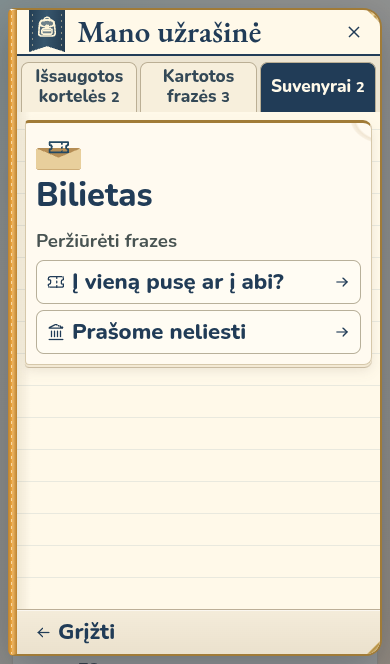
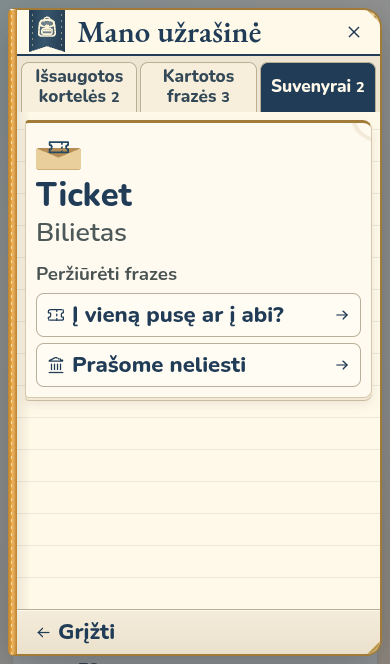
Use the owner-approved English names for Maple Harbor keepsakes

Changed region(s): [[0.0615, 0.2711, 0.9538, 0.6024], [0.8615, 0.4217, 0.9231, 0.512]]

diff --git a/src/content/keepsakes.ts b/src/content/keepsakes.ts
@@ -26,107 +26,107 @@ const black = 0x2a2e36;
 
 export const KIND = {
   cue_chalk: {
-    nominative: "Biliardo kreida", accusative: "biliardo kreidą",
+    en: "Pool chalk", nominative: "Biliardo kreida", accusative: "biliardo kreidą",
     shape: [box(blue, 4.8, 4.6, 4.8), box(0x8cc8e6, 4.8, 0.4, 4.8, 0, 2.4)],
   },
   passport_stamp: {
-    nominative: "Antspaudas pase", accusative: "antspaudą pase",
+    en: "Passport stamp", nominative: "Antspaudas pase", accusative: "antspaudą pase",
     shape: [box(darkBlue, 14, 10, 0.7), box(white, 6.3, 9, 0.25, -3.4, 0, 0.4),
       box(white, 6.3, 9, 0.25, 3.4, 0, 0.4), loop(red, 1.8, 0.2, 3.6, 0.8, 0.57)],
   },
   boarding_pass: {
-    nominative: "Įlaipinimo talonas", accusative: "įlaipinimo taloną",
+    en: "Boarding pass", nominative: "Įlaipinimo talonas", accusative: "įlaipinimo taloną",
     shape: [box(white, 14, 6, 0.22), box(blue, 3, 6, 0.28, 5.5), box(blue, 6, 0.6, 0.28, -2, 1.2)],
   },
   baggage_tag: {
-    nominative: "Bagažo kvitas", accusative: "bagažo kvitą",
+    en: "Baggage claim ticket", nominative: "Bagažo kvitas", accusative: "bagažo kvitą",
     shape: [box(0xed852d, 5, 9, 0.45, 0, -3.5), loop(white, 2, 0.25, 0, 2.5), box(white, 3.5, 2, 0.48, 0, -4.5)],
   },
   ticket: {
-    nominative: "Bilietas", accusative: "bilietą",
+    en: "Ticket", nominative: "Bilietas", accusative: "bilietą",
     shape: [box(0xf3cb52, 12, 5.5, 0.24), box(0x976925, 0.5, 5.5, 0.28, 3), box(white, 4, 0.6, 0.28, -2, 0.7)],
   },
   room_key: {
-    nominative: "Kambario raktas", accusative: "kambario raktą",
+    en: "Room key", nominative: "Kambario raktas", accusative: "kambario raktą",
     shape: [box(0x855533, 4.5, 6, 1.2, -2, 2, 0, -0.2), loop(gold, 1.6, 0.33, 0.5, -0.6),
       box(gold, 1.3, 7, 0.55, 1.4, -4.8, 0, 0.17), box(gold, 2.7, 1.2, 0.55, 2.6, -7)],
   },
   home_key: {
-    nominative: "Buto raktas", accusative: "buto raktą",
+    en: "Apartment key", nominative: "Buto raktas", accusative: "buto raktą",
     shape: [loop(silver, 2.4, 0.34, 0, 2.2), box(silver, 3.4, 2.5, 0.55, 0, -1.5),
       box(silver, 1.3, 6.5, 0.55, 0, -5.2), box(silver, 2.5, 1.3, 0.55, 0.6, -7)],
   },
   car_key: {
-    nominative: "Automobilio raktelis", accusative: "automobilio raktelį",
+    en: "Car key", nominative: "Automobilio raktelis", accusative: "automobilio raktelį",
     shape: [box(black, 4.5, 7.5, 1.6), box(silver, 1.5, 3.3, 0.55, 0, -5.1),
       box(0x6a7179, 2.5, 3.4, 0.25, 0, 0.7, 0.85)],
   },
   map: {
-    nominative: "Miesto žemėlapis", accusative: "miesto žemėlapį",
+    en: "Town map", nominative: "Miesto žemėlapis", accusative: "miesto žemėlapį",
     shape: [box(0x84bda1, 4.6, 10, 0.22, -4.5, 0.3, 0, 0.12),
       box(white, 4.6, 10, 0.22), box(0x7ab5d9, 4.6, 10, 0.22, 4.5, -0.3, 0, -0.12),
       box(gold, 13.3, 0.7, 0.3, 0, 0.6, 0, 0.1)],
   },
   coffee_cup: {
-    nominative: "Kavos puodelis", accusative: "kavos puodelį",
+    en: "Coffee cup", nominative: "Kavos puodelis", accusative: "kavos puodelį",
     shape: [cylinder(white, 4, 2.8, 10, 1), cylinder(paper, 3.8, 3.2, 4.4, 0.8),
       cylinder(0x473329, 3.8, 4.3, 1.4, 6.4)],
   },
   receipt: {
-    nominative: "Kvitas", accusative: "kvitą",
+    en: "Receipt", nominative: "Kvitas", accusative: "kvitą",
     shape: [box(white, 5, 14, 0.18), box(0xa4a2a0, 2.7, 0.45, 0.22, 0, 3),
       box(0xa4a2a0, 2.7, 0.45, 0.22, 0, 1), box(0xa4a2a0, 1.6, 0.45, 0.22, -0.55, -2)],
   },
   shopping_bag: {
-    nominative: "Pirkinių maišelis", accusative: "pirkinių maišelį",
+    en: "Shopping bag", nominative: "Pirkinių maišelis", accusative: "pirkinių maišelį",
     shape: [box(paper, 10, 10, 4.7, 0, -6.5), loop(0x845937, 2.6, 0.32, 0, -0.7, 1.7),
       loop(0x845937, 2.6, 0.32, 0, -0.7, -1.7)],
   },
   business_card: {
-    nominative: "Vizitinė kortelė", accusative: "vizitinę kortelę",
+    en: "Business card", nominative: "Vizitinė kortelė", accusative: "vizitinę kortelę",
     shape: [box(white, 10, 6, 0.26), box(darkBlue, 3, 0.6, 0.3, -2, 1), box(blue, 5, 0.4, 0.3, -1, -1)],
   },
   badge: {
-    nominative: "Darbuotojo kortelė", accusative: "darbuotojo kortelę",
+    en: "Employee badge", nominative: "Darbuotojo kortelė", accusative: "darbuotojo kortelę",
     shape: [box(blue, 7, 10, 0.55, 0, -2), box(white, 5.7, 6.6, 0.59, 0, -2.8),
       box(silver, 1.8, 2.6, 0.75, 0, 3.8), box(darkBlue, 2.7, 0.55, 0.62, 0, -3.4)],
   },
   note: {
-    nominative: "Raštelis", accusative: "raštelį",
+    en: "Note", nominative: "Raštelis", accusative: "raštelį",
     shape: [box(0xffdf63, 9, 9, 0.26), box(0xa28746, 5, 0.36, 0.3, -0.5, 1.5),
       box(0xa28746, 3.3, 0.36, 0.3, -1.35, -0.3)],
   },
   flower: {
-    nominative: "Gėlė", accusative: "gėlę",
+    en: "Flower", nominative: "Gėlė", accusative: "gėlę",
     shape: [cylinder(green, 0.35, 0.4, 11, -0.4), sphere(red, 2.5, 6, 0.8), box(green, 3.6, 1.3, 0.65, 1.2, 0.6, 0, 0.55)],
   },
   balloon: {
-    nominative: "Balionas", accusative: "balioną",
+    en: "Balloon", nominative: "Balionas", accusative: "balioną",
     shape: [cylinder(white, 0.18, 0.18, 18, 9), cylinder(red, 0.55, 1, 1.5, 18),
       sphere(red, 6.6, 25.8, 1.16)],
   },
   water_bottle: {
-    nominative: "Gertuvė", accusative: "gertuvę",
+    en: "Water bottle", nominative: "Gertuvė", accusative: "gertuvę",
     shape: [cylinder(0x328f95, 2.5, 2.7, 11, 0), cylinder(blue, 2.7, 2.7, 2.7, 6.2), cylinder(silver, 1.05, 1.05, 1.1, 8)],
   },
   prescription: {
-    nominative: "Receptas", accusative: "receptą",
+    en: "Prescription", nominative: "Receptas", accusative: "receptą",
     shape: [box(white, 10, 13, 0.22), box(green, 4.1, 1.2, 0.26, 0, 2.3), box(green, 1.2, 4.1, 0.26, 0, 2.3)],
   },
   wallet: {
-    nominative: "Piniginė", accusative: "piniginę",
+    en: "Wallet", nominative: "Piniginė", accusative: "piniginę",
     shape: [box(0x74472d, 11, 7.5, 1.45), box(0x9b633e, 11.1, 2.9, 0.5, 0, 1.8, 0.75),
       box(gold, 0.95, 0.95, 0.55, 0, 0.3, 0.85)],
   },
   slate_pebble: {
-    nominative: "Mažas skalūno akmenėlis", accusative: "mažą skalūno akmenėlį",
+    en: "Small slate pebble", nominative: "Mažas skalūno akmenėlis", accusative: "mažą skalūno akmenėlį",
     shape: [sphere(0x59656e, 2.4, 0, 0.48)],
   },
   oak_leaf: {
-    nominative: "Ąžuolo lapas", accusative: "ąžuolo lapą",
+    en: "Oak leaf", nominative: "Ąžuolo lapas", accusative: "ąžuolo lapą",
     shape: [box(0x77502a, 0.45, 8, 0.2), sphere(gold, 2, 1.7, 1.15), sphere(gold, 2.4, -0.7, 0.9)],
   },
-} satisfies Record<string, { nominative: string; accusative: string; shape: KeepsakePart[] }>;
+} satisfies Record<string, { en: string; nominative: string; accusative: string; shape: KeepsakePart[] }>;
 
 export type KeepsakeKind = keyof typeof KIND;
 

diff --git a/src/ui/Notebook.tsx b/src/ui/Notebook.tsx
@@ -22,6 +22,11 @@ const empty = {
   keepsakes: "Užbaik pokalbį ir gausi suvenyrą.",
 };
 
+function PocketName({ kind }: { kind: KeepsakeKind }) {
+  const { en, nominative } = KIND[kind];
+  return <span className="nb-pocket-name"><span lang="en">{en}</span>{" "}<span lang="lt">{nominative}</span></span>;
+}
+
 function Source({ id, label }: { id: string; label?: string }) {
   const name = sourceName(id, label);
   return name ? <span className="nb-source">{Object.hasOwn(SITUATION_BY_ID, id) && <SitIcon id={id} size="16" />}{name}</span> : null;
@@ -168,7 +173,7 @@ export function Notebook({ close }: { close: () => void }) {
     leaf === "phrases" ? phrase && <Reading key={phrase[0]} phrase={phrase[1]} now={today} afterRemove={remove} /> :
     kind && <article className="nb-reading nb-pocket">
       <div className="nb-envelope"><KeepsakeIcon kind={kind} /></div>
-      <h3 data-reading-title tabIndex={-1}>{KIND[kind].nominative}</h3>
+      <h3 data-reading-title tabIndex={-1}><PocketName kind={kind} /></h3>
       <h4>Peržiūrėti frazes</h4>
       {pockets.get(kind)!.map((sit) => <button key={sit.id} data-source={sit.id}
         onClick={() => filteredPhrases(kind, sit.id)}><SitIcon id={sit.id} size={18} />{sit.title.lt}<Icon name="arrowRight" size={16} /></button>)}
@@ -217,7 +222,7 @@ export function Notebook({ close }: { close: () => void }) {
           </>}
           {leaf === "keepsakes" && [...pockets].slice(0, limit).map(([k, sources]) =>
             <button className="nb-pocket-row" key={k} {...entry(k)}>
-              <span className="nb-envelope"><KeepsakeIcon kind={k} /></span>{KIND[k].nominative}<small>{sources.length}</small>
+              <span className="nb-envelope"><KeepsakeIcon kind={k} /></span><PocketName kind={k} /><small>{sources.length}</small>
             </button>)}
           {counts[leaf] > limit && <button onClick={() => {
             const first = leaf === "cards" ? saved[limit].id : rows[limit][0];

diff --git a/tests/keepsakes.test.ts b/tests/keepsakes.test.ts
@@ -1,3 +1,4 @@
+import { readFileSync } from "node:fs";
 import { describe, expect, it } from "vitest";
 import { KIND, KEEPSAKES, keepsakeFor } from "../src/content/keepsakes";
 import { SITUATIONS } from "../src/content/situations";
@@ -7,6 +8,13 @@ describe("conversation keepsakes", () => {
     expect(Object.keys(KEEPSAKES).sort()).toEqual(SITUATIONS.map((sit) => sit.id).sort());
     for (const kind of Object.values(KEEPSAKES)) expect(KIND).toHaveProperty(kind);
     expect(keepsakeFor("unmapped")).toBe("receipt");
+  });
+
+  it("matches every English and Lithuanian pocket name in the copy ledger", () => {
+    const ledger = readFileSync(new URL("../docs/plans/WORDS-backpack.md", import.meta.url), "utf8");
+    const pocketSection = ledger.split("## Pocket names")[1].split("\n## ")[0];
+    const rows = pocketSection.split("\n").filter((line) => line.startsWith("|")).slice(2);
+    expect(rows.sort()).toEqual(Object.values(KIND).map(({ en, nominative }) => `| ${en} | ${nominative} |`).sort());
   });
 
   it("defines both Lithuanian forms and a shape for every kind", () => {

diff --git a/src/ui/notebook.css b/src/ui/notebook.css
@@ -64,6 +64,8 @@
 .nb-card-tools .cd-meta { align-items: start; }
 .nb-reading button:disabled { opacity: 1; color: #385b4b; background: #eef5e9; }
 .nb-index .nb-pocket-row { display: flex; width: 100%; justify-content: start; margin: 0 0 6px; }
+.nb-pocket-name { min-width: 0; }
+.nb-pocket-name [lang=lt] { display: block; font-size: .82em; font-weight: 550; color: #4d5959; }
 .nb-pocket-row small { margin-inline-start: auto; }
 .nb-envelope { position: relative; isolation: isolate; width: 68px; height: 62px; display: inline-grid; place-items: start center; padding-top: 2px; }
 .nb-envelope::before, .nb-envelope::after { content: ""; position: absolute; bottom: 0; width: 100%; height: 58%; border-radius: 3px; }

diff --git a/docs/plans/WORDS-backpack.md b/docs/plans/WORDS-backpack.md
@@ -1,6 +1,6 @@
 # Maple Harbor backpack copy
 
-English is the editorial reference. Maple Harbor displays Lithuanian controls, English targets and the Lithuanian helper stored with each entry. Counts in braces are values supplied by the game.
+Maple Harbor displays Lithuanian controls, English targets with their stored Lithuanian helpers, and bilingual keepsake names. English control labels below serve as the editorial reference. Counts in braces are values supplied by the game.
 
 | Location | American English | Lithuanian |
 | --- | --- | --- |
@@ -53,7 +53,7 @@ English is the editorial reference. Maple Harbor displays Lithuanian controls, E
 
 ## Pocket names
 
-The labels use the existing nominative forms in `src/content/keepsakes.ts`. Each source button uses its situation’s existing Lithuanian title.
+These are the owner-approved English names for the backpack and town hall. Each pocket shows the English name and its Lithuanian nominative from `KIND` in `src/content/keepsakes.ts`. Each source button uses its situation’s Lithuanian title.
 
 | American English | Lithuanian |
 | --- | --- |
@@ -65,7 +65,7 @@ The labels use the existing nominative forms in `src/content/keepsakes.ts`. Each
 | Room key | Kambario raktas |
 | Apartment key | Buto raktas |
 | Car key | Automobilio raktelis |
-| City map | Miesto žemėlapis |
+| Town map | Miesto žemėlapis |
 | Coffee cup | Kavos puodelis |
 | Receipt | Kvitas |
 | Shopping bag | Pirkinių maišelis |
